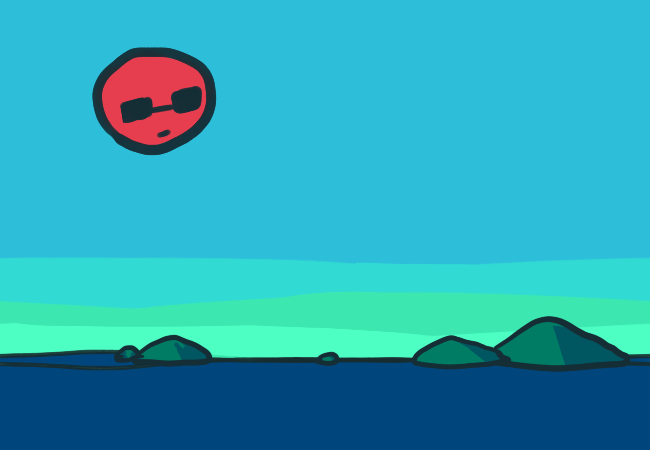
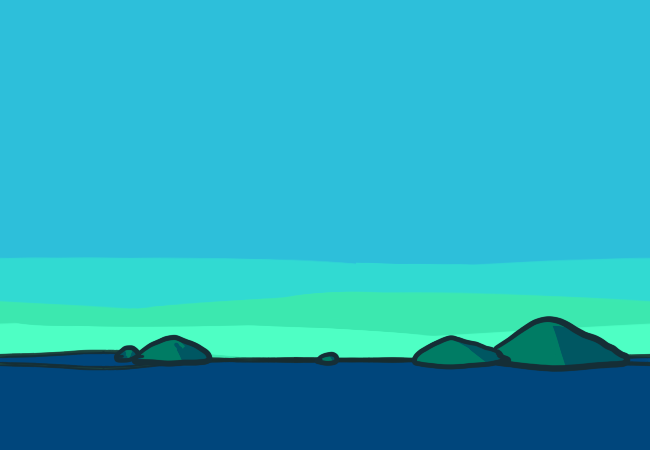
背景雲自動移動

Changed region(s): [[0.1231, 0.0933, 0.3385, 0.3422]]

diff --git a/Game.cpp b/Game.cpp
@@ -19,9 +19,15 @@ Game::Game(){
 	ins = this;
 	resource = 1000;
 	for (int i = 0; i < 5; i++){
-		for (int j = 0; j < 3; j++){
-			shared_ptr<background> p(new background(stage_W[i], i, j, FIELD_W * 3));
-			back_list.push_back(p);
+		for (int j = 0; j < 5; j++){
+			if (j == 2){
+				shared_ptr<background> p(new background(stage_W[i], i, j, FIELD_W * 3, true));
+				back_list.push_back(p);
+			}
+			else{
+				shared_ptr<background> p(new background(stage_W[i], i, j, FIELD_W * 3, false));
+				back_list.push_back(p);
+			}
 		}
 	}
 
@@ -29,6 +35,7 @@ Game::Game(){
 		shared_ptr<castle> p(new castle(stage_W[i], 0, i));
 		castle_list.push_back(p);
 	}
+
 	hohei::setNum(0);
 	tank::setNum(0);
 	balloon::setNum(0);
@@ -163,6 +170,9 @@ void Game::main(){
 	shared_ptr<enemy> target_e_sky;
 	shared_ptr<musume> target_m_sky;
 
+	for (auto i : back_list){
+			i->main(x);
+	}
 
 	for (int j=0; j < 3; j++){
 		for (auto i : enemy_list[j]){
@@ -341,8 +351,9 @@ void Game::scrollLeft(int sx){
 void Game::scrollRight(int sx){
 	int r_end = stage_W[castle::getNowstage()];
 	x += sx;	
-	if (x + FIELD_W > r_end) x = r_end - FIELD_W;
+//	if (x + FIELD_W > r_end) x = r_end - FIELD_W;
 	if (x + FIELD_W > STAGE8_W) x = STAGE8_W - FIELD_W ;
 }
+
 
 

diff --git a/Images.h b/Images.h
@@ -36,7 +36,7 @@ public:
 	int g_copter[6];
 	int g_missile[3];
 	int castle[8];
-	int back[5][3];
+	int back[5][5];
 	Images(void){}
 	~Images(void){}
 	void load();
